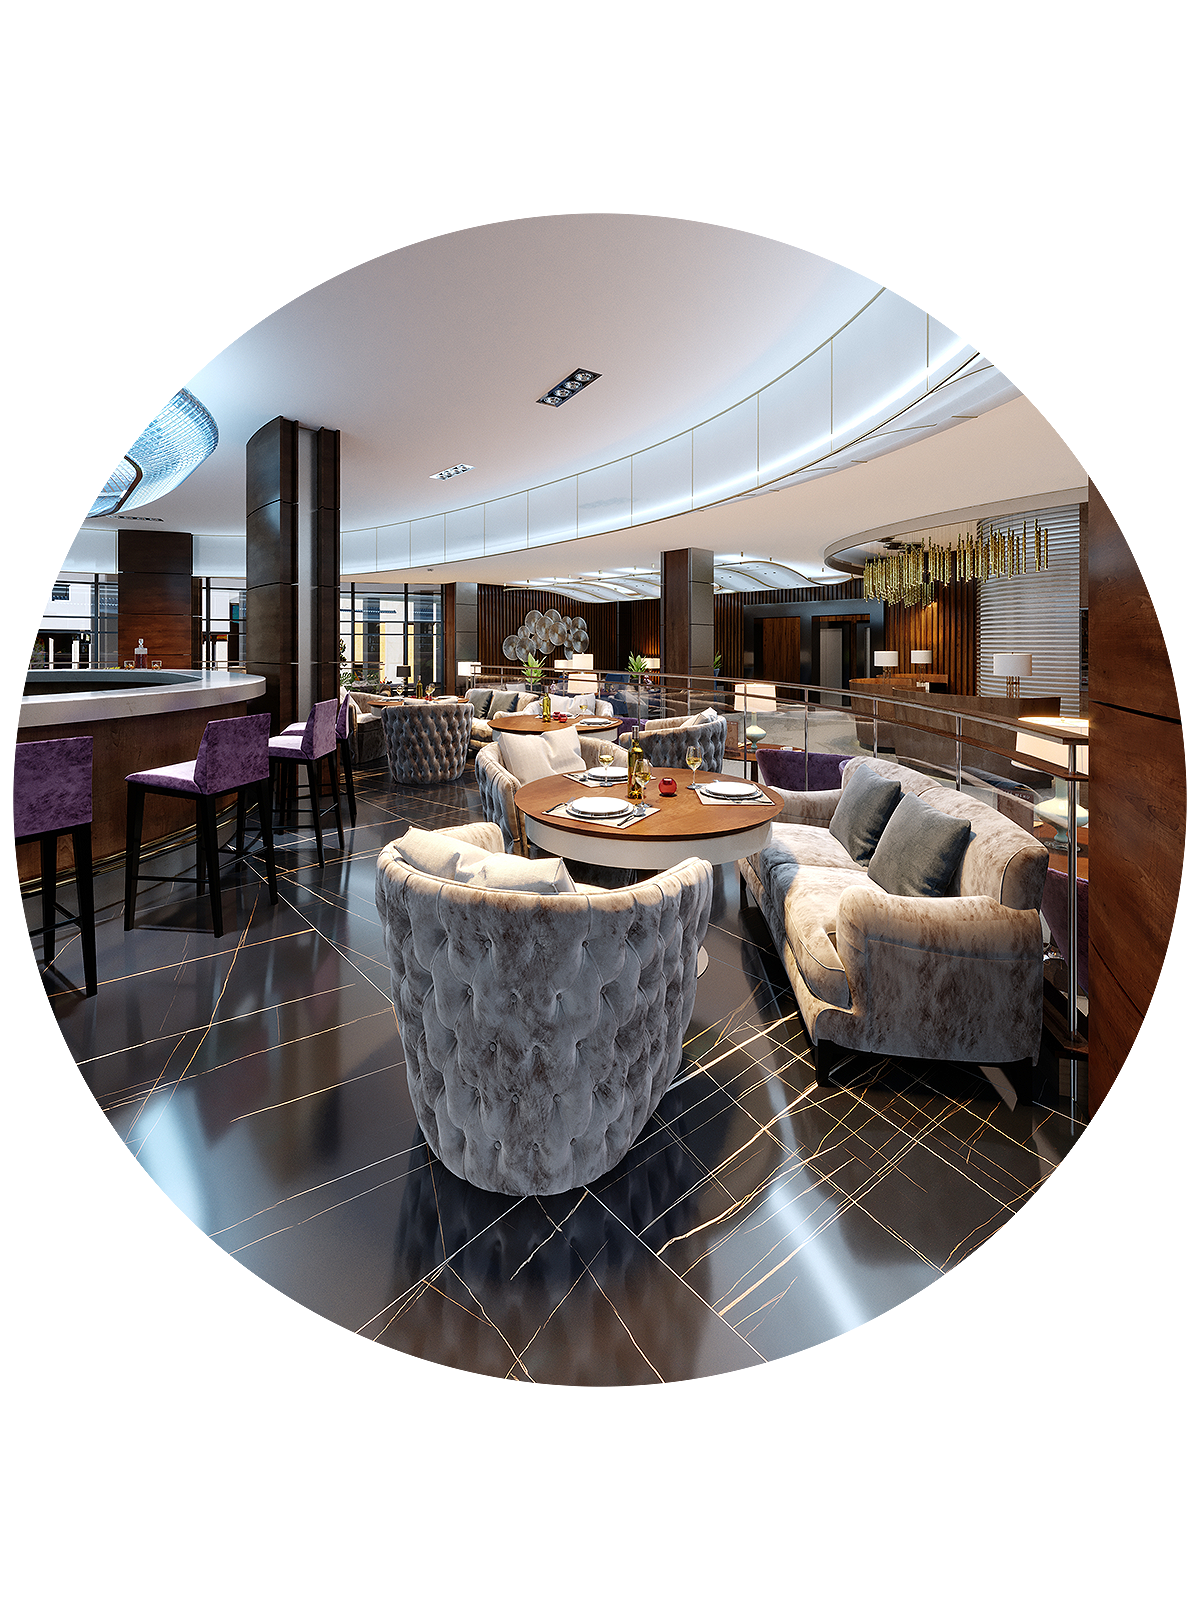
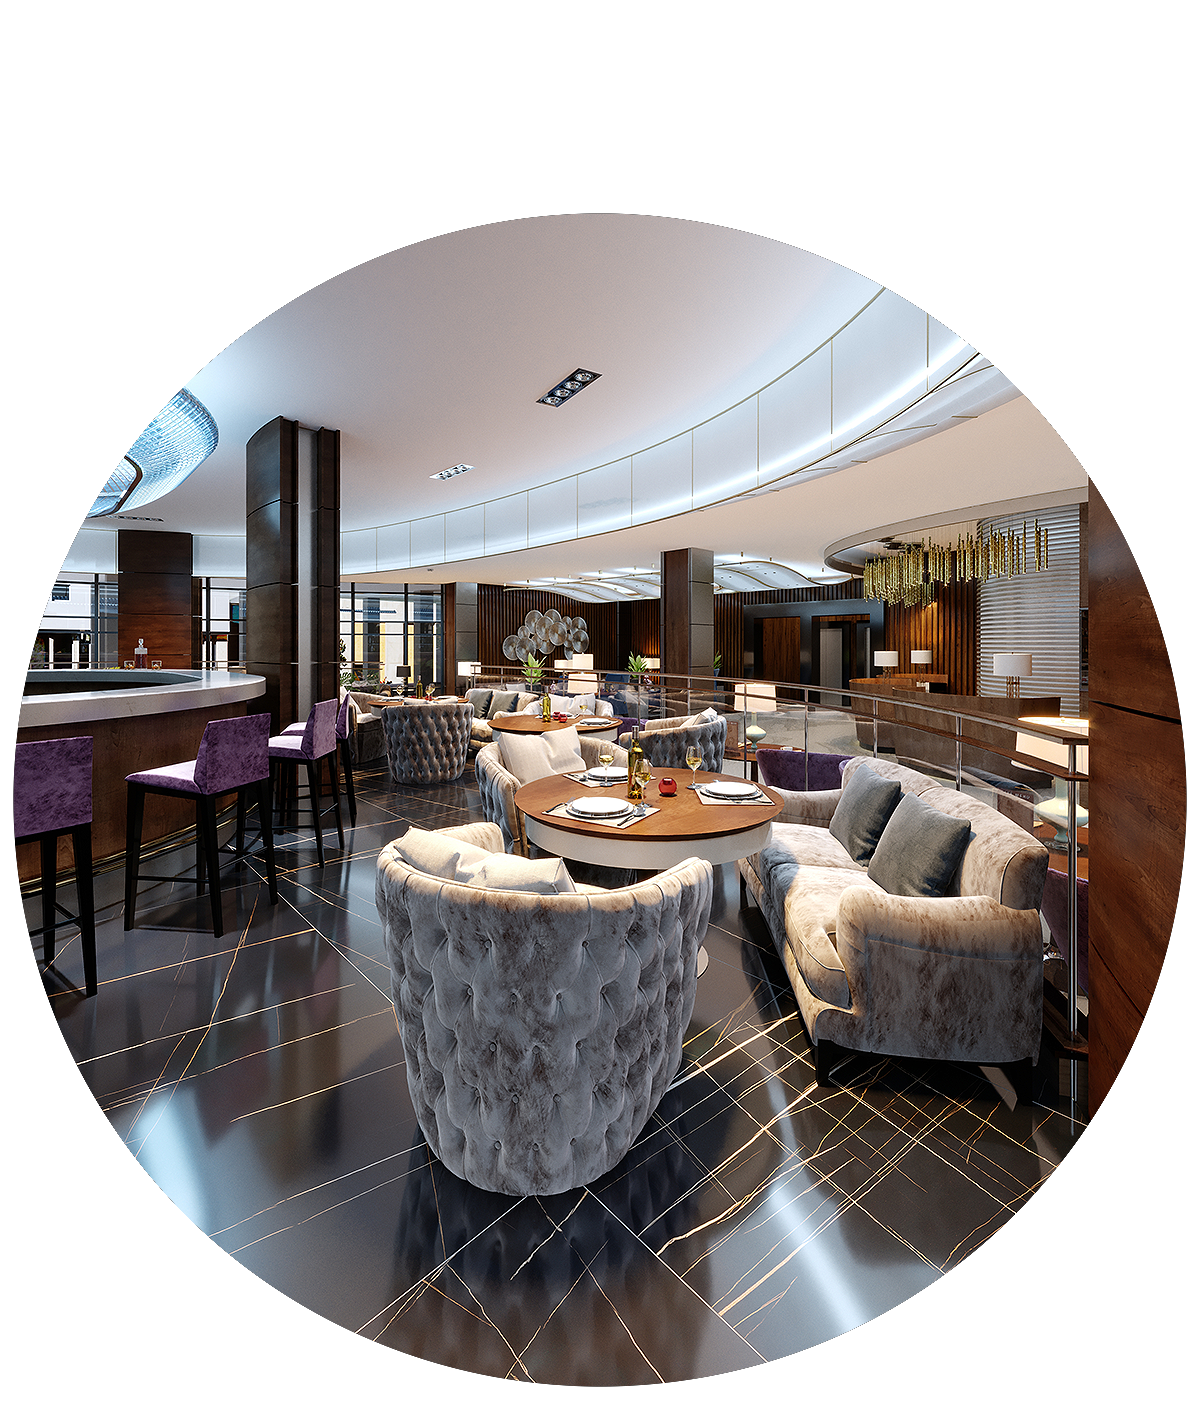
service

diff --git a/css/style.css b/css/style.css
@@ -2995,7 +2995,7 @@ padding-right: 2%;
  
 }
 .servive-commercial {
-  margin-top: 4%;
+  margin-top: ;
 }
 .redefined p{
   font-size: 18px;
